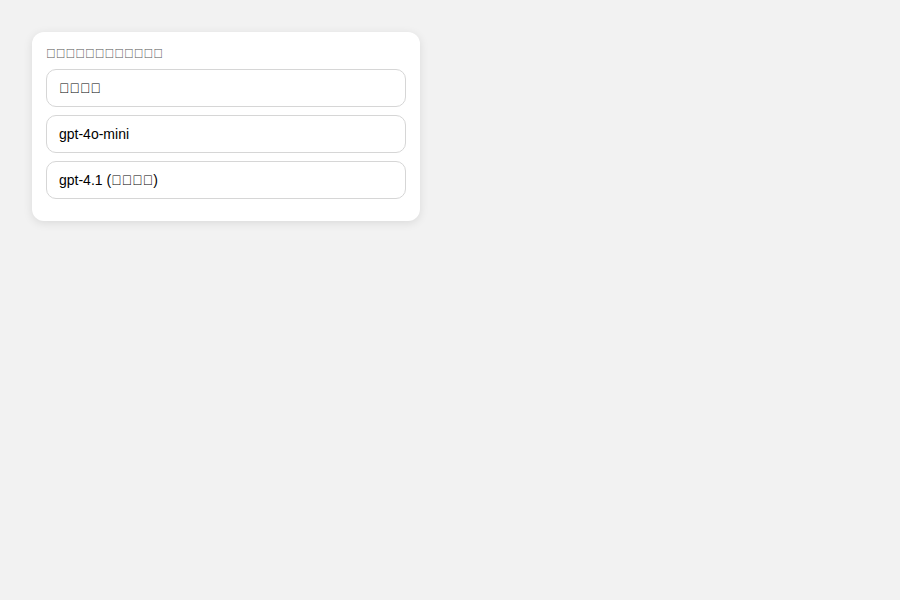
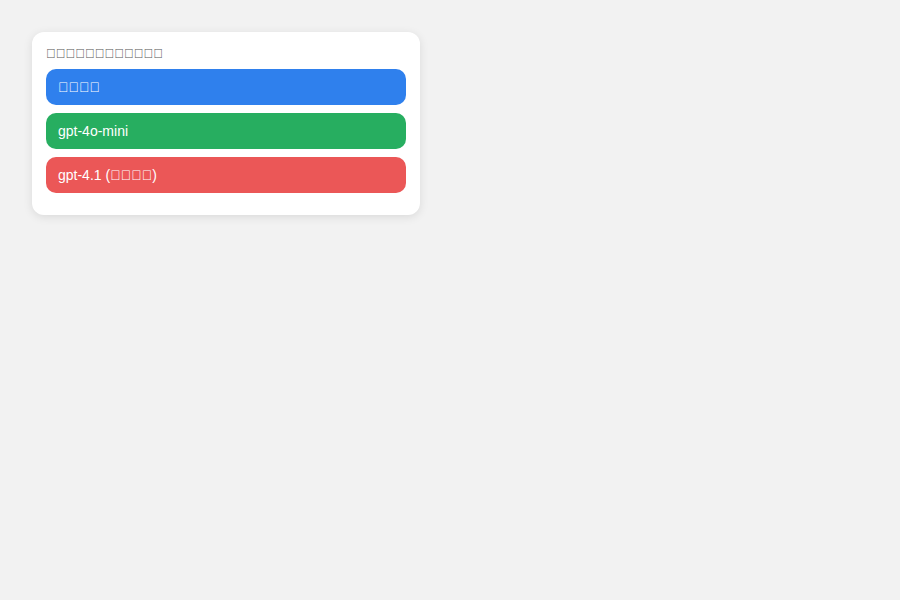
feat: apply style-based model button highlighting with fallback
Agent-Logs-Url: https://github.com/MinecraftYYDS/tgaibot/sessions/6f8de1f6-6e85-4687-b743-4003d694e2fb

Changed region(s): [[0.0311, 0.09, 0.4667, 0.36]]

diff --git a/src/bot/keyboards.py b/src/bot/keyboards.py
@@ -5,15 +5,23 @@ from aiogram.types import InlineKeyboardButton, InlineKeyboardMarkup
 from src.config import settings
 
 
+def _styled_button(text: str, callback_data: str, style: str) -> InlineKeyboardButton:
+    try:
+        return InlineKeyboardButton(text=text, callback_data=callback_data, style=style)  # type: ignore[call-arg]
+    except (TypeError, ValueError):
+        return InlineKeyboardButton(text=text, callback_data=callback_data)
+
+
 def model_selection_keyboard() -> InlineKeyboardMarkup:
     from src.bot.runtime import failed_ping_models  # local import to avoid circular dep
 
-    rows: list[list[InlineKeyboardButton]] = [[InlineKeyboardButton(text="自动路由", callback_data="model:auto")]]
+    rows: list[list[InlineKeyboardButton]] = [[_styled_button(text="自动路由", callback_data="model:auto", style="primary")]]
     for model in settings.model_catalog:
         if "tts" in model.tags:
             continue
-        label = f"{model.label} (暂不可用)" if model.id in failed_ping_models else model.label
-        rows.append([InlineKeyboardButton(text=label, callback_data=f"model:{model.id}")])
+        failed = model.id in failed_ping_models
+        label = f"{model.label} (暂不可用)" if failed else model.label
+        rows.append([_styled_button(text=label, callback_data=f"model:{model.id}", style="danger" if failed else "success")])
     return InlineKeyboardMarkup(inline_keyboard=rows)
 
 
